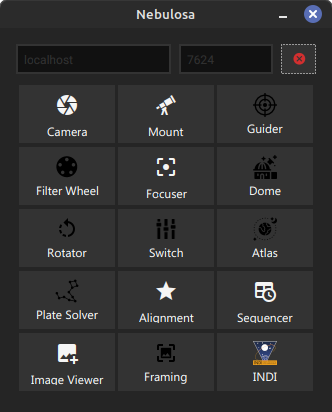
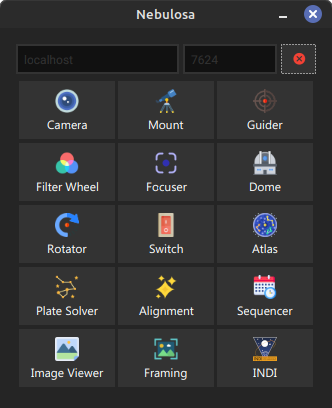
Update

diff --git a/desktop/src/main/resources/icons/CREDITS.md b/desktop/src/main/resources/icons/CREDITS.md
@@ -7,14 +7,23 @@
 * https://www.flaticon.com/free-icon/clock_3133110
 * https://www.flaticon.com/free-icon/map_854878
 * https://www.flaticon.com/free-icon/remote-control_3567313
-* https://www.flaticon.com/free-icon/sky_3982229?term=sky+map
+* https://www.flaticon.com/free-icon/sky_3982229
 * https://www.flaticon.com/free-icon/text-box_3815460
 * https://www.flaticon.com/free-icon/big-dipper_9672540
-* https://www.flaticon.com/free-icon/image_2496846?term=image+edit
+* https://www.flaticon.com/free-icon/image_2496846
 * https://www.flaticon.com/free-icon/histogram_2709742
 * https://www.flaticon.com/free-icon/rgb_3963860
 * https://www.flaticon.com/free-icon/pisces_8062826
-* https://www.flaticon.com/free-icon/observatory_4861260
-* https://www.flaticon.com/free-icon/target_934640
 * https://www.flaticon.com/free-icon/night_3171773
 * https://www.flaticon.com/free-icon/target_3207593
+* https://www.flaticon.com/free-icon/camera-lens_5708327
+* https://www.flaticon.com/free-icon/telescope_4011463
+* https://www.flaticon.com/free-icon/observatory_2256076
+* https://www.flaticon.com/free-icon/focus_3801224
+* https://www.flaticon.com/free-icon/switch_404449
+* https://www.flaticon.com/free-icon/image_4371206
+* https://www.flaticon.com/free-icon/image-processing_6062419
+* https://www.flaticon.com/free-icon/star_740882
+* https://www.flaticon.com/free-icon/rotate_3303063
+* https://www.flaticon.com/free-icon/combination_8654893
+* https://www.flaticon.com/free-icon/rgb-print_4904473
